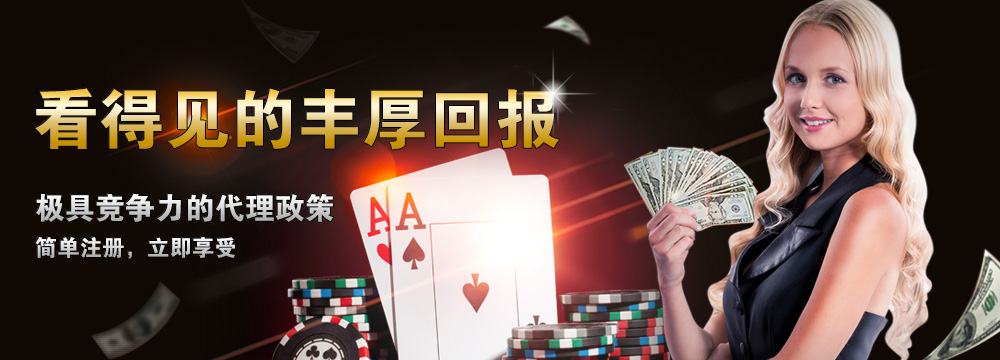
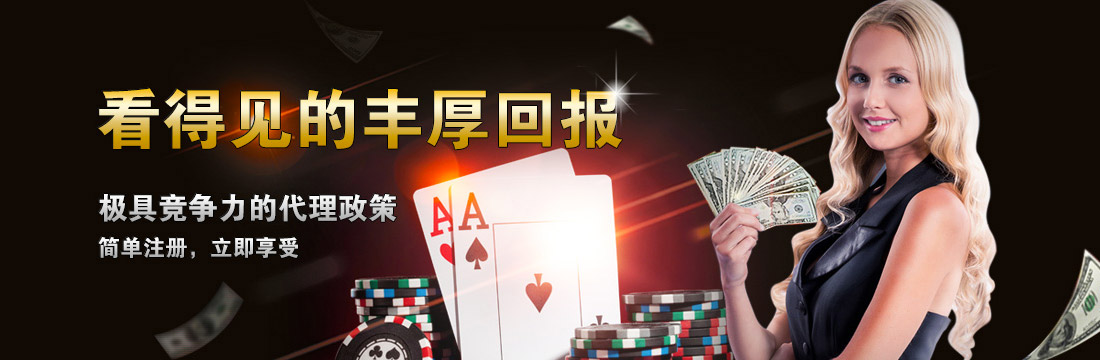
Updates 09Mar17

diff --git a/theme_h10/static/style/main.css b/theme_h10/static/style/main.css
@@ -98,6 +98,7 @@ a{color:#fff;}
 .header-bottom{height:41px; border-bottom: 1px solid #d7be69 !important;}
 .header-bottom .header-address{background:url(../images/header/head_address.png) no-repeat; display:block; width:175px; height:30px; position:absolute; top:41px; left:50%; margin-left:-87.5px; z-index:1000;}
 
+.login-wrap{padding-right:20px;}
 .login-menu .login-title{background-position:0 9px; float:left; color:#f2d983; font-size:14px; line-height:42px; margin-right:20px; padding-left:28px;}
 .login-menu input{width:212px; height:34px; float:left; display:inline; margin:3px 5px 0 0; padding:5px 10px 5px 30px; font-size:14px; color:#fff; border:1px solid #555; border-radius:0; box-sizing:border-box;}
 .login-menu input:focus{border-color:#f2d983;}
@@ -209,9 +210,9 @@ a{color:#fff;}
 .footer{background-color:#171717; color:#999;}
 .footer .footer-contact{border-top:1px solid #2d2d2d; border-bottom:1px solid #2d2d2d;}
 .footer .footer-contact li {float:left; display:inline; padding:14px 0; font-size:14px; color:#999; box-sizing:border-box;}
-.footer .footer-contact li.footer-contact-1{margin-right:132px;}
-.footer .footer-contact li.footer-contact-2{margin-right:149px;}
-.footer .footer-contact li.footer-contact-3{margin-right:135px;}
+.footer .footer-contact li.footer-contact-1{margin-right:179px;}
+.footer .footer-contact li.footer-contact-2{margin-right:179px;}
+.footer .footer-contact li.footer-contact-4{float:right;}
 .footer .footer-contact li > span{display: block; padding-left: 50px;}
 .footer .footer-contact li > i{background:url('../images/footer/footer_contact.png') no-repeat 0 0; display: block; width: 36px; height: 36px; position: absolute; margin-top:4px;}
 .footer .footer-contact li.footer-contact-2 > i{background-position:0 -42px;}

diff --git a/theme_h10/static/style/css.css b/theme_h10/static/style/css.css
@@ -194,9 +194,8 @@ body{position:relative;}
 .mod-lottery .bb-item .bb-07{background-position:-214px -109px;}
 
 .platform-wrap .hd-menu.lottery-menu > li{width:499px; height:60px; position:relative; border-right:none;}
-.platform-wrap .hd-menu.lottery-menu > li:hover h2{color:#edc968;}
 .platform-wrap .hd-menu.lottery-menu > li h2{padding:18px 0 0 90px;}
-.platform-wrap .hd-menu.lottery-menu > li.bb-menu{background-position: 165px -159px;}
+.platform-wrap .hd-menu.lottery-menu > li.bb-menu{background-position: 165px -159px; border-right: 1px solid #545454;}
 .platform-wrap .hd-menu.lottery-menu > li.kg-menu{background-image: url(/static/images/menu_slots_kg.png); background-position: 138px 10px; background-repeat: no-repeat;}
 
 .lotto-sgwin .img{background:url(../images/lotto/lottery_sgwin_icon.png) no-repeat;}
@@ -275,7 +274,7 @@ body{position:relative;}
 .mod-games .bb-item .games-item li em{background-repeat:no-repeat; width:180px; height:120px; background-position:0 -170px; display:block; margin:2px auto;}
 .mod-games .bb-item .games-item li:hover em{background-position:0 -20px;}
 .mod-games .ag-item .games-item li em{background-repeat:no-repeat; width:450px; height:230px; display:block; margin:0 auto;}
-.mod-games .nt-item .games-item li em{background-repeat:no-repeat; width:180px; height:120px; display:block; margin:0 auto;}
+.mod-games .nt-item .games-item li em{background-repeat:no-repeat; width:180px; height:120px; display:block; margin:2px auto;}
 
 .pt-pc-download{background:url(../images/pt_pc_download.png) no-repeat; width:198px; height:44px; display:block; position:absolute; top:-7px; right:8px; line-height:200px; overflow:hidden;}
 .pt-pc-download:hover{background-position:0 -44px;}

diff --git a/theme_h10/static/style/agency-style.css b/theme_h10/static/style/agency-style.css
@@ -1,9 +1,10 @@
 /* CSS Document */
 
 /* 代理前端 */
-.nav{width:600px;}
+.nav{width:582px;}
 .nav li > a{height:47px; line-height:47px;}
-.mod-banner{height:344px;}
+.mod-banner{height:360px;}
+.mod-banner .slide-wrap ul li img{top:0;}
 .agency-platform li{margin:0 0 20px;}
 .agency-platform .platform-tit{background:#000; border-top:1px solid #222; height:116px;}
 .agency-platform .platform-logo{width:250px; margin:20px 0 0; height:70px; border-right:1px solid #222; color:#666; text-align:center;}
@@ -11,10 +12,10 @@
 .agency-platform .platform-logo span{font:20px/1.6 "Microsoft YaHei";}
 .agency-platform .platform-text{font-size:14px; width:360px; padding:24px 10px 10px 80px; color:#888;}
 .agency-platform .platform-text strong{color:#BEA76D;}
-.agency-platform .platform-go{background:#E52A35; color:#fff; margin:32px 40px 0px 20px; width:220px; height:54px; font:20px/54px "Microsoft YaHei"; text-align:center; cursor:pointer;}
+.agency-platform .platform-go{background:#E52A35; color:#fff; margin:32px 40px 0px 120px; width:220px; height:54px; font:20px/54px "Microsoft YaHei"; text-align:center; cursor:pointer;}
 .agency-platform .platform-go:hover{background:#9D0101;}
 
-/*.agency-content{padding:20px 0;}*/
+.agency-content, .agency-home{padding-top:10px;}
 .agency-content .layout{background:#000; margin:0 auto; margin-bottom:10px; color:#888;}
 .agency-content .agency-wrap{padding:20px; width:960px;}
 .agency-content h2{font:30px/1.5 "Microsoft YaHei"; margin-bottom:20px; color:#fff;}
@@ -29,3 +30,5 @@
 /* notice */
 .notice{position:relative; margin-bottom:10px;}
 /* 代理中心 */
+
+

diff --git a/theme_h10/views/home/index.php b/theme_h10/views/home/index.php
@@ -48,51 +48,51 @@
                     <ul>
                         <li>
                             <span class="state">北京</span>
-										        <span class="username">ro***41854</span>
-										        <span class="game">古怪的猴子</span>
-										        <span class="amount">32000元</span>
+                            <span class="username">ro***41854</span>
+                            <span class="game">古怪的猴子</span>
+                            <span class="amount">32000元</span>
                         </li>
                         <li>
                             <span class="state">湖南</span>
-										        <span class="username">ow***23</span>
-										        <span class="game">宝石之轮</span>
-										        <span class="amount">46000元</span>
+                            <span class="username">ow***23</span>
+                            <span class="game">宝石之轮</span>
+                            <span class="amount">46000元</span>
                         </li>
                         <li>
                             <span class="state">北京</span>
-										        <span class="username">ro***41854</span>
-										        <span class="game">古怪的猴子</span>
-										        <span class="amount">32000元</span>
+                            <span class="username">ro***41854</span>
+                            <span class="game">古怪的猴子</span>
+                            <span class="amount">32000元</span>
                         </li>
                         <li>
                             <span class="state">湖南</span>
-										        <span class="username">ow***23</span>
-										        <span class="game">宝石之轮</span>
-										        <span class="amount">46000元</span>
+                            <span class="username">ow***23</span>
+                            <span class="game">宝石之轮</span>
+                            <span class="amount">46000元</span>
                         </li>
                         <li>
                             <span class="state">北京</span>
-										        <span class="username">ro***41854</span>
-										        <span class="game">古怪的猴子</span>
-										        <span class="amount">32000元</span>
+                            <span class="username">ro***41854</span>
+                            <span class="game">古怪的猴子</span>
+                            <span class="amount">32000元</span>
                         </li>
                         <li>
                             <span class="state">湖南</span>
-										        <span class="username">ow***23</span>
-										        <span class="game">宝石之轮</span>
-										        <span class="amount">46000元</span>
+                            <span class="username">ow***23</span>
+                            <span class="game">宝石之轮</span>
+                            <span class="amount">46000元</span>
                         </li>
                         <li>
                             <span class="state">北京</span>
-										        <span class="username">ro***41854</span>
-										        <span class="game">古怪的猴子</span>
-										        <span class="amount">32000元</span>
+                            <span class="username">ro***41854</span>
+                            <span class="game">古怪的猴子</span>
+                            <span class="amount">32000元</span>
                         </li>
                         <li>
                             <span class="state">湖南</span>
-										        <span class="username">ow***23</span>
-										        <span class="game">宝石之轮</span>
-										        <span class="amount">46000元</span>
+                            <span class="username">ow***23</span>
+                            <span class="game">宝石之轮</span>
+                            <span class="amount">46000元</span>
                         </li>
                     </ul>
                 </div>
@@ -100,51 +100,51 @@
                     <ul>
                         <li>
                             <span class="state">北京</span>
-										        <span class="username">ro***41854</span>
-										        <span class="game">古怪的猴子</span>
-										        <span class="amount">32000元</span>
+                            <span class="username">ro***41854</span>
+                            <span class="game">古怪的猴子</span>
+                            <span class="amount">32000元</span>
                         </li>
                         <li>
                             <span class="state">湖南</span>
-										        <span class="username">ow***23</span>
-										        <span class="game">宝石之轮</span>
-										        <span class="amount">46000元</span>
+                            <span class="username">ow***23</span>
+                            <span class="game">宝石之轮</span>
+                            <span class="amount">46000元</span>
                         </li>
                         <li>
                             <span class="state">北京</span>
-										        <span class="username">ro***41854</span>
-										        <span class="game">古怪的猴子</span>
-										        <span class="amount">32000元</span>
+                            <span class="username">ro***41854</span>
+                            <span class="game">古怪的猴子</span>
+                            <span class="amount">32000元</span>
                         </li>
                         <li>
                             <span class="state">湖南</span>
-										        <span class="username">ow***23</span>
-										        <span class="game">宝石之轮</span>
-										        <span class="amount">46000元</span>
+                            <span class="username">ow***23</span>
+                            <span class="game">宝石之轮</span>
+                            <span class="amount">46000元</span>
                         </li>
                         <li>
                             <span class="state">北京</span>
-										        <span class="username">ro***41854</span>
-										        <span class="game">古怪的猴子</span>
-										        <span class="amount">32000元</span>
+                            <span class="username">ro***41854</span>
+                            <span class="game">古怪的猴子</span>
+                            <span class="amount">32000元</span>
                         </li>
                         <li>
                             <span class="state">湖南</span>
-										        <span class="username">ow***23</span>
-										        <span class="game">宝石之轮</span>
-										        <span class="amount">46000元</span>
+                            <span class="username">ow***23</span>
+                            <span class="game">宝石之轮</span>
+                            <span class="amount">46000元</span>
                         </li>
                         <li>
                             <span class="state">北京</span>
-										        <span class="username">ro***41854</span>
-										        <span class="game">古怪的猴子</span>
-										        <span class="amount">32000元</span>
+                            <span class="username">ro***41854</span>
+                            <span class="game">古怪的猴子</span>
+                            <span class="amount">32000元</span>
                         </li>
                         <li>
                             <span class="state">湖南</span>
-										        <span class="username">ow***23</span>
-										        <span class="game">宝石之轮</span>
-										        <span class="amount">46000元</span>
+                            <span class="username">ow***23</span>
+                            <span class="game">宝石之轮</span>
+                            <span class="amount">46000元</span>
                         </li>
                     </ul>
                 </div>
@@ -249,28 +249,28 @@
                     </ul>
               
                     <ul id="aggame_list" class="hide clearfix">
-                        <li class="ag-1" onclick="load_ag_by("<?= $this->is_login()?0:1; ?>);">
+                        <li class="ag-1" onclick="load_ag_by(<?= $this->is_login()?0:1; ?>);">
                             <span class="hot-game"></span>
                             <em class="ag_game_fish"></em>
                             <div class="game-name">捕鱼王2</div>
                         </li>
-                        <li class="ag-2" onclick="load_ag_game("<?= $this->is_login()?0:1; ?>);">
+                        <li class="ag-2" onclick="load_ag_game(<?= $this->is_login()?0:1; ?>);">
                             <em class="ag_game_items"></em>
                             <div class="game-name">性感女仆</div>
                         </li>
-                        <li class="ag-3" onclick="load_ag_game("<?= $this->is_login()?0:1; ?>);">
+                        <li class="ag-3" onclick="load_ag_game(<?= $this->is_login()?0:1; ?>);">
                             <em class="ag_game_items"></em>
                             <div class="game-name">灵猴献瑞</div>
                         </li>
-                        <li class="ag-4" onclick="load_ag_game("<?= $this->is_login()?0:1; ?>);">
+                        <li class="ag-4" onclick="load_ag_game(<?= $this->is_login()?0:1; ?>);">
                             <em class="ag_game_items"></em>
                             <div class="game-name">杰克高手</div>
                         </li>
-                        <li class="ag-5" onclick="load_ag_game("<?= $this->is_login()?0:1; ?>);">
+                        <li class="ag-5" onclick="load_ag_game(<?= $this->is_login()?0:1; ?>);">
                             <em class="ag_game_items"></em>
                             <div class="game-name">水果拉霸</div>
                         </li>
-                        <li class="ag-6" onclick="load_ag_game("<?= $this->is_login()?0:1; ?>);">
+                        <li class="ag-6" onclick="load_ag_game(<?= $this->is_login()?0:1; ?>);">
                             <span class="hot-game"></span>
                             <em class="ag_game_items"></em>
                             <div class="game-name">幸运8</div>

diff --git a/theme_h10/views/home/mobile.php b/theme_h10/views/home/mobile.php
@@ -11,7 +11,7 @@ if($this->is_login()){
         <div class="section section-app">
             <div class="layout">
                 <div class="fr section-info">
-                    <h3 class="clearfix"><span class="fl">澳门金沙手机APP</span><i class="fl"></i></h3>
+                    <h3 class="clearfix"><span class="fl">澳门新葡京赌场手机APP</span><i class="fl"></i></h3>
                     <div class="inner clearfix">
                         <p class="fl qr-code"><img src="<?=Helper::GetSiteTextInfo(203);?>" /></p>
                         <div class="fl">
@@ -29,7 +29,7 @@ if($this->is_login()){
             <div class="layout">
                 <div class="fr section-img"><img src="<?=$this->getCdn();?>/images/mobile_web_img.png" /></div>
                 <div class="fl section-info">
-                    <h3>澳门金沙手机Web版</h3>
+                    <h3>澳门新葡京赌场手机Web版</h3>
                     <div class="inner clearfix">
                         <p class="fl qr-code"><img src="<?=Helper::GetSiteTextInfo(204);?>" /></p>
                         <div class="fl">
@@ -83,6 +83,6 @@ if($this->is_login()){
 </div>
 
 <!-- PT电游客户端下载 -->
-<?= $this->renderPartial('/game/ptClientDownload',array('pt_playername'=>$pt_playername,'name'=>'澳门金沙')) ?>
+<?= $this->renderPartial('/game/ptClientDownload',array('pt_playername'=>$pt_playername,'name'=>'澳门新葡京赌场')) ?>
 <!-- end PT电游客户端下载 -->
 

diff --git a/theme_h10/views/agent/home/index.php b/theme_h10/views/agent/home/index.php
@@ -1,9 +1,6 @@
 <div class="content">
 	  <div class="agency-home">
 		    <div class="mod-banner">
-            <!-- 公告 -->
-            <?= $this->renderPartial('../../layouts/notice') ?>
-            <!--end 公告 -->
             <!--焦点图-->
             <div class="slide-wrap" id="slides">
                 <ul>
@@ -13,7 +10,7 @@
             <!--end 焦点图-->	
         </div>
         
-        <div class="agency-platform layout1000 clearfix">
+        <div class="agency-platform layout clearfix">
             <ul>
                 <li>
                     <div class="platform-tit info-tit clearfix">

diff --git a/theme_h10/views/layouts/header.php b/theme_h10/views/layouts/header.php
@@ -205,7 +205,7 @@
             <i class="header-address"></i>
             <div class="login-wrap">
                 <?php if(!$this->is_login()): ?>
-                    <div class="login-menu">
+                    <div class="login-menu fr">
                         <span class="login-title">用户登录 / login</span>
                         <input type="text" id="uid" name="uid" placeholder="账号" class="username-btn" />
                         <input type="password" id="jpwd" name="jpwd" placeholder="密码" class="password-btn" />

diff --git a/theme_h10/views/agent/layouts/header.php b/theme_h10/views/agent/layouts/header.php
@@ -36,7 +36,7 @@
         <div class="layout pr">
             <div class="login-wrap">
                 <?php if(!$this->is_agent_login()): ?>
-                <div class="login-menu">
+                <div class="login-menu fr">
                     <span class="login-title">代理登录 / login</span>
                     <input type="text" id="uid" name="uid" placeholder="代理账号" class="username-btn" />
                     <input type="password" id="jpwd" name="jpwd" placeholder="密码" class="password-btn" />

diff --git a/theme_h10/views/game/index.php b/theme_h10/views/game/index.php
@@ -264,5 +264,5 @@ function nt_search(){
 </script>
 
 <!-- PT电游客户端下载 -->
-<?= $this->renderPartial('/game/ptClientDownload',array('pt_playername'=>$pt_playername,'name'=>'澳门金沙')) ?>
+<?= $this->renderPartial('/game/ptClientDownload',array('pt_playername'=>$pt_playername,'name'=>'澳门新葡京赌场')) ?>
 <!-- end PT电游客户端下载 -->

diff --git a/theme_h10/views/agent/home/agreement.php b/theme_h10/views/agent/home/agreement.php
@@ -1,7 +1,4 @@
 <div class="content agency-content">
-    <!-- 公告 -->
-    <?= $this->renderPartial('../../layouts/notice') ?>
-    <!--end 公告 -->
     <div class="layout">
         <div class="agency-wrap">
             <h2>合营协议</h2>

diff --git a/theme_h10/views/agent/home/model.php b/theme_h10/views/agent/home/model.php
@@ -1,7 +1,4 @@
 <div class="content agency-content">
-    <!-- 公告 -->
-    <?= $this->renderPartial('../../layouts/notice') ?>
-    <!--end 公告 -->
     <div class="layout">
         <div class="agency-wrap">
             <h2>合营模式</h2>

diff --git a/theme_h10/views/agent/home/policy.php b/theme_h10/views/agent/home/policy.php
@@ -1,7 +1,4 @@
 <div class="content agency-content">
-    <!-- 公告 -->
-    <?= $this->renderPartial('../../layouts/notice') ?>
-    <!--end 公告 -->
     <div class="layout">
         <div class="agency-wrap">
             <h2>佣金政策</h2>
